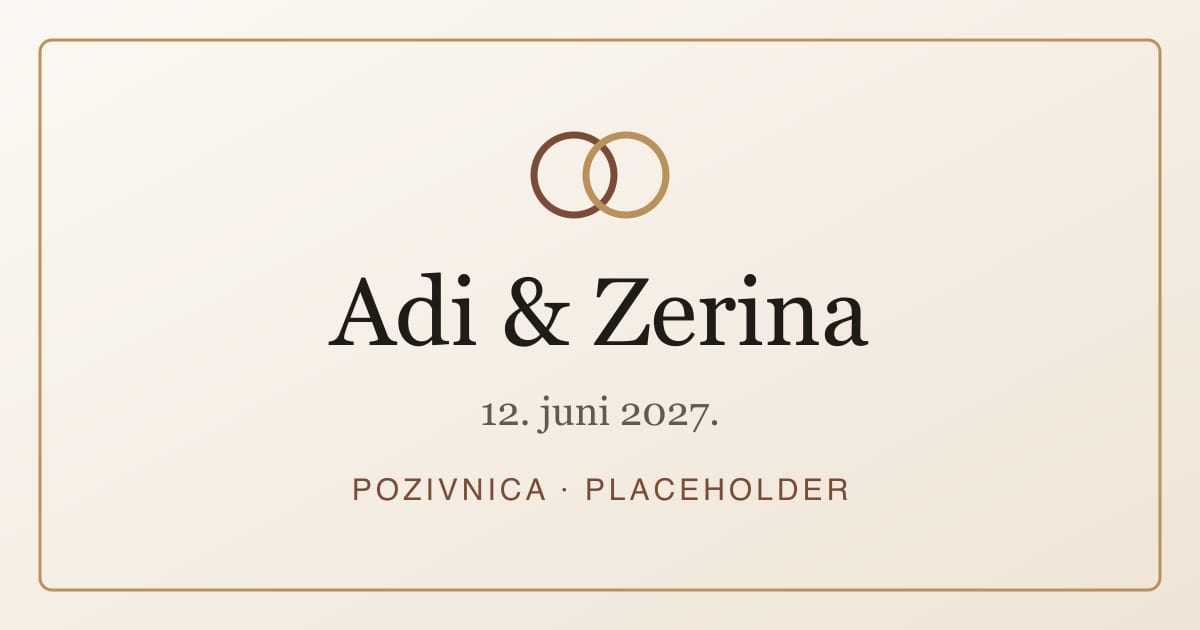
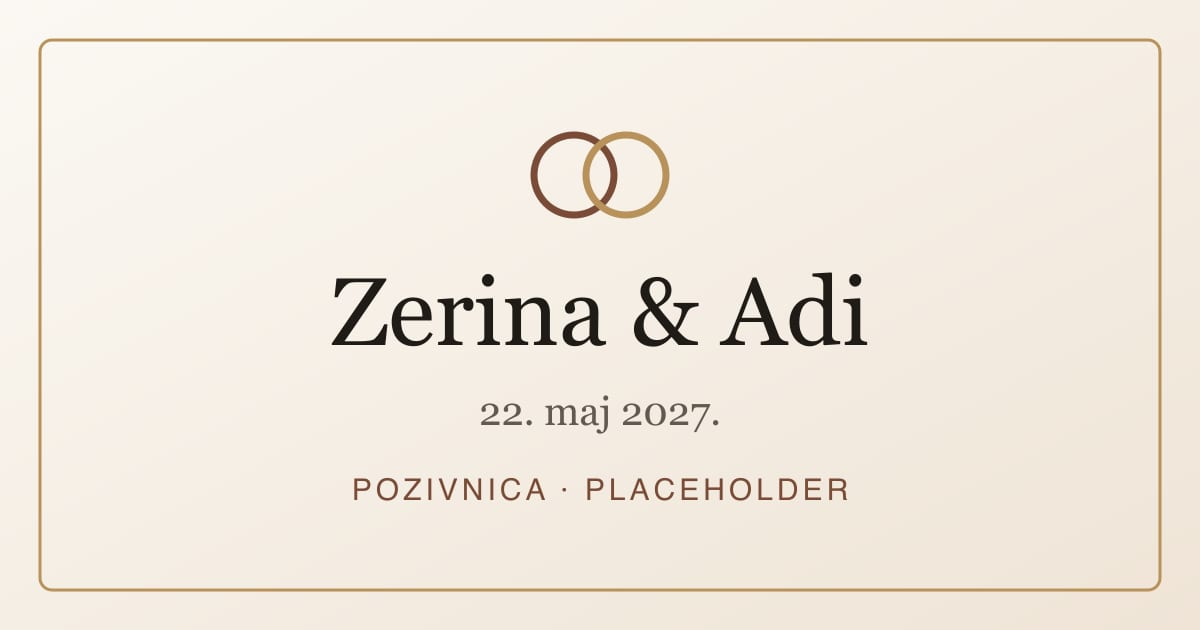
Real event details (22. maj 2027., Restoran Nova Bentbaša) and Zerina-first name order

Changed region(s): [[0.2775, 0.4222, 0.74, 0.573], [0.4008, 0.6333, 0.5858, 0.6937]]

diff --git a/shared/event.ts b/shared/event.ts
@@ -2,20 +2,21 @@
 // (via src/config/event.ts), the API (deadline) and the build (og: tags).
 // Keep this file free of browser/Node-only APIs and of import.meta.env.
 //
-// TODO(Adi & Zerina): replace the placeholders with the real details.
+// Name order is always Zerina first: "Zerina & Adi", "Zerina i Adi", "Zerini ili Adiju".
+// TODO(Zerina & Adi): confirm the time, the exact address and the RSVP deadline.
 
 export const event = {
-  coupleNames: 'Adi & Zerina',
-  groomName: 'Adi',
+  coupleNames: 'Zerina & Adi',
   brideName: 'Zerina',
+  groomName: 'Adi',
 
   /** Shown in the invitation, the og:title and the WhatsApp message. */
-  dateLabel: '12. juni 2027.',
-  timeLabel: '18:00',
+  dateLabel: '22. maj 2027.',
+  timeLabel: '18:00 (placeholder)',
 
-  venueName: 'Naziv sale (placeholder)',
-  address: 'Ulica i broj, Sarajevo (placeholder)',
-  mapUrl: 'https://maps.google.com/?q=Sarajevo',
+  venueName: 'Restoran Nova Bentbaša',
+  address: 'Bentbaša, Sarajevo',
+  mapUrl: 'https://maps.app.goo.gl/1ZUty9yGYdWgKxGz8',
 
   /**
    * RSVP deadline: ISO 8601 WITH timezone offset (summer time in Sarajevo is +02:00).

diff --git a/index.html b/index.html
@@ -22,7 +22,7 @@
     <meta property="og:title" content="__OG_TITLE__" />
     <meta property="og:description" content="__OG_DESCRIPTION__" />
     <meta property="og:url" content="__OG_BASE_URL__/" />
-    <meta property="og:image" content="__OG_BASE_URL__/preview.jpg?v=1" />
+    <meta property="og:image" content="__OG_BASE_URL__/preview.jpg?v=2" />
     <meta property="og:image:type" content="image/jpeg" />
     <meta property="og:image:width" content="1200" />
     <meta property="og:image:height" content="630" />
@@ -30,7 +30,7 @@
     <meta name="twitter:card" content="summary_large_image" />
     <meta name="twitter:title" content="__OG_TITLE__" />
     <meta name="twitter:description" content="__OG_DESCRIPTION__" />
-    <meta name="twitter:image" content="__OG_BASE_URL__/preview.jpg?v=1" />
+    <meta name="twitter:image" content="__OG_BASE_URL__/preview.jpg?v=2" />
   </head>
   <body>
     <noscript>Za prikaz pozivnice uključite JavaScript u pregledniku.</noscript>
